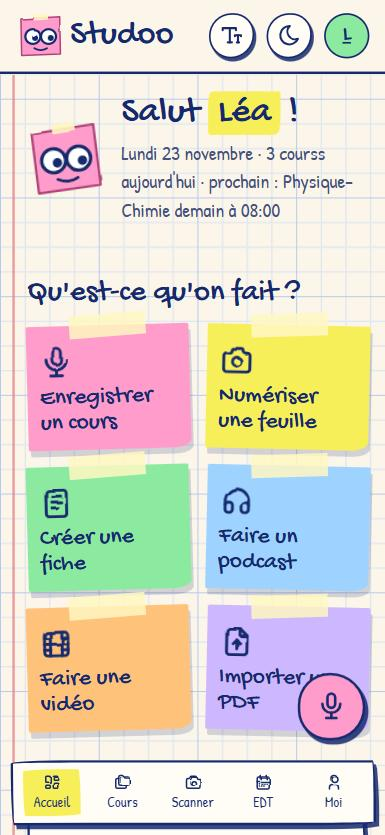
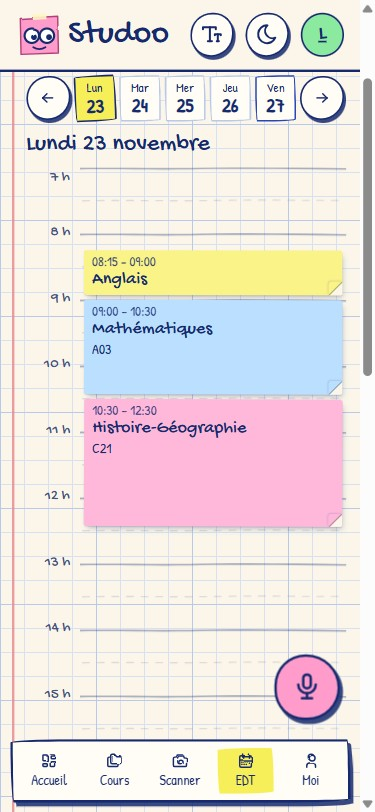
Lancement public : README soigné, guide des étapes manuelles, contrôle avant mise en ligne (itération 7, L2 et L4)
- Vercel ne met en ligne la branche main que si les tests GitHub ont réussi pour ce commit
  (scripts/vercel-ignore.sh, testé : réussite → mise en ligne, échec → annulation) et relance les tests
  du site pendant la construction.
- README : présentation, captures à jour, fonctionnalités, choix techniques, schéma, sécurité, installation,
  ce qu'il faut configurer soi-même, liens vers SERVICES, SECURITE, LANCEMENT ; crédits corrigés.
- docs/LANCEMENT.md : étapes manuelles dans l'ordre (clés Azure, Sentry, Google en production et vérification
  de la marque, Search Console, Bing, GitHub), textes à coller, script de vidéo, coûts ; logo 120×120 pour Google.
- .env.example : nouveaux réglages (quotas des générations, Sentry, e-mail de secours).

diff --git a/README.md b/README.md
@@ -5,13 +5,15 @@
 <h1 align="center">Studoo</h1>
 
 <p align="center"><strong>Tes cours, au propre.</strong><br>
-Un site de révision pour lycéens et étudiants : transcription de cours, numérisation de feuilles,<br>
-fiches, podcasts et vidéos générés <em>uniquement</em> à partir de tes propres cours, le tout rangé dans ton Google Drive.</p>
+Un site de révision gratuit pour lycéens et étudiants : transcription de cours, numérisation de feuilles,<br>
+fiches, podcasts, vidéos et exercices générés <em>uniquement</em> à partir de tes propres cours, le tout rangé dans ton Google Drive.</p>
 
 <p align="center">
-  <a href="https://studoo-app.vercel.app">studoo-app.vercel.app</a> ·
+  <a href="https://studoo-app.vercel.app"><strong>studoo-app.vercel.app</strong></a> ·
   <a href="docs/ARCHITECTURE.md">Architecture</a> ·
-  <a href="docs/DEPLOIEMENT.md">Mise en ligne</a>
+  <a href="docs/SERVICES.md">Services</a> ·
+  <a href="docs/SECURITE.md">Sécurité</a> ·
+  <a href="docs/LANCEMENT.md">Mise en ligne</a>
 </p>
 
 ![Page d'accueil de Studoo au style cahier quadrillé](docs/screenshots/accueil.png)
@@ -20,60 +22,64 @@ fiches, podcasts et vidéos générés <em>uniquement</em> à partir de tes prop
 
 | Outil | Comment |
 |---|---|
-| 🎙 **Enregistrer un cours** | Le micro de l'appareil enregistre par tranches de 5 min. Chaque tranche est transcrite par **Azure AI Speech** avec le **rôle de chaque personne** (« Professeur : », « Élève : »), puis **l'audio est effacé**. |
-| 📷 **Numériser une feuille** | Photo → détection de la feuille → redressement → suppression des ombres → **PDF propre**. Traitement d'image écrit à la main en JavaScript, dans le navigateur. |
-| 🗂 **Ranger automatiquement** | Après chaque enregistrement/numérisation, Studoo **devine le cours** (emploi du temps + IA), le chapitre et **génère le titre**. |
-| 📝 **Fiches de révision** | Fiches dessinées à la main (définitions surlignées, formules encadrées, pièges, mini-quiz), exportables en PDF. |
-| 🎧 **Podcasts** | 10, 20 ou 30 min, dialogue Vivienne + Henri (voix Azure, allure radio), script écrit par GPT-4.1 mini sur le serveur de tâches. |
-| 🎬 **Vidéos explicatives** | Diaporama animé dessiné + voix (Vivienne) + sous-titres, animé dans le navigateur et exportable en **MP4** (WebCodecs) : format TikTok, YouTube ou long. |
-| ✏ **Feuilles d'exercices** | Entraînement (TD), mise en pratique (TP), contrôle blanc (DST) ou questions flash (QCM), tirés des cours ; corrigé masqué ; **correction de la copie en photo** (note /20, erreurs, notions à revoir). |
-| 📅 **Emploi du temps** | Grille aux **vraies heures** (vue semaine, vue jour sur téléphone). **Robots** : lycée → Pronote et l'ENT régional trouvés tout seuls ; supérieur → ADE (vérifié sur un vrai compte) et Celcat. **Expérimentaux, jamais testés sur un vrai compte** : HyperPlanning, Aurion, ADE à identifiants propres. Le mot de passe est oublié après la connexion. À chaque échec : dernier recours `.ics` + signalement de l'établissement ([détails](docs/EMPLOI_DU_TEMPS.md)). |
+| 🎙 **[Enregistrer un cours](https://studoo-app.vercel.app/outils/transcrire-un-cours)** | Le micro enregistre par tranches de 5 min ; **Azure AI Speech** transcrit en indiquant **qui parle** (« Professeur : », « Élève : »), puis **l'audio est effacé**. Jauge de niveau sonore, messages clairs (micro inaccessible, silence, service indisponible). |
+| 📷 **Numériser une feuille** | Photo → détection de la feuille → redressement → suppression des ombres → **PDF propre**. Traitement d'image écrit à la main en JavaScript, dans le navigateur. Le texte est lu sur notre serveur par un modèle open source (Qwen3-VL). |
+| 🗂 **Ranger automatiquement** | Après chaque enregistrement ou numérisation, Studoo **devine le cours** (emploi du temps + IA), le chapitre, et **propose un titre**. |
+| 📝 **[Fiches de révision](https://studoo-app.vercel.app/outils/fiche-de-revision-automatique)** | Fiches dessinées à la main (définitions surlignées, formules encadrées, pièges, mini-quiz), exportables en PDF. |
+| 🎧 **[Podcasts](https://studoo-app.vercel.app/outils/podcast-de-revision)** | 10, 20 ou 30 min, dialogue Vivienne + Henri (voix Azure, allure radio), écrit sur le serveur de tâches : on peut fermer la page. |
+| 🎬 **[Vidéos explicatives](https://studoo-app.vercel.app/outils/video-de-revision)** | Diaporama dessiné, commenté et sous-titré, animé dans le navigateur, exportable en **MP4** (WebCodecs) : format TikTok, YouTube ou long. |
+| ✏ **[Exercices et correction](https://studoo-app.vercel.app/outils/exercices-et-correction)** | TD, TP, contrôle blanc ou QCM tirés des cours ; corrigé caché ; **correction de la copie en photo** (note /20, erreurs, notions à revoir). |
+| 📅 **[Emploi du temps](https://studoo-app.vercel.app/outils/emploi-du-temps)** | Grille **dessinée à la main**, cours en post-it **à leur heure réelle** (semaine sur PC, jour par jour sur téléphone). **Robots** : Pronote et ENT régionaux (lycées), ADE (vérifié sur un vrai compte) et Celcat (supérieur) ; **expérimentaux, jamais testés sur un vrai compte** : HyperPlanning, Aurion, ADE à identifiants propres. Le mot de passe est oublié après la connexion. À chaque échec : dernier recours `.ics` + signalement de l'établissement. |
+| ⚙ **Admin** | Comptes (supprimer ou **bannir**, journal des actions), établissements signalés, quotas, **services** (tableau de bord et mode d'emploi de chacun), schéma du site. |
 
 <table>
   <tr>
-    <td><img src="docs/screenshots/tableau-de-bord.jpg" alt="Tableau de bord : outils en post-it, cours du jour, mes cours"></td>
-    <td><img src="docs/screenshots/fiche.jpg" alt="Fiche de révision générée au style cahier"></td>
+    <td><img src="docs/screenshots/tableau-de-bord.jpg" alt="Tableau de bord : outils en post-it (4 + 3), cours du jour, mes cours"></td>
+    <td><img src="docs/screenshots/emploi-du-temps.jpg" alt="Emploi du temps dessiné à la main, cours en post-it placés à leur heure réelle"></td>
   </tr>
   <tr>
+    <td><img src="docs/screenshots/fiche.jpg" alt="Fiche de révision générée au style cahier"></td>
     <td><img src="docs/screenshots/video.jpg" alt="Vidéo explicative générée au format vertical"></td>
-    <td><img src="docs/screenshots/emploi-du-temps-sombre.jpg" alt="Emploi du temps de la semaine en mode sombre"></td>
   </tr>
 </table>
 
-<p align="center"><img src="docs/screenshots/mobile.jpg" alt="Tableau de bord sur téléphone avec barre de navigation et bouton micro" width="260"></p>
+<p align="center"><img src="docs/screenshots/mobile.jpg" alt="Emploi du temps sur téléphone : un jour à la fois, sélecteur de jours" width="260"></p>
 
 ## Choix techniques (et pourquoi)
 
 | Partie | Technologie | Pourquoi |
 |---|---|---|
-| Site | **HTML, CSS, JavaScript** sans framework, assemblés par **Vite** | Comprendre chaque ligne ; site léger (Lighthouse **100/100** partout). |
-| API | **Python 3 + FastAPI** | Lisible, rapide, validation automatique des données (Pydantic). |
-| Connexion | **Google uniquement** (OAuth 2.0, flux « code ») | Un seul compte, qui donne aussi accès au stockage (Drive). |
-| Stockage | **Google Drive** de l'utilisateur, autorisation `drive.file` | Aucun cours sur nos serveurs ; Studoo ne voit que ses propres fichiers. |
-| IA | **Microsoft Azure** : AI Speech (transcription avec rôles, voix Vivienne/Henri), Azure OpenAI GPT-4.1 mini (rangement, fiches, scripts, exercices, corrections), Qwen3-VL open source sur notre serveur (lecture des photos) | Crédit Azure for Students, données en Europe (Italy North). **Aucun envoi à Google par défaut** ; chaque élève peut, s'il le veut, utiliser **sa propre clé Gemini** pour les fonctionnalités qu'il coche. |
-| Base de données | **Postgres (Neon)**, SQLite en local, SQLAlchemy Core | Seulement comptes, compteurs et messages. |
-| Pronote / ENT | **pronotepy** (Python, non officielle, MIT) | Robot : lycée trouvé dans l'annuaire officiel, ENT reconnu tout seul, récupération du lien iCal officiel. |
-| Hébergement | **Vercel** (site statique + fonction Python) | Gratuit, déploiement automatique depuis GitHub, HTTPS. |
+| Site | **HTML, CSS, JavaScript** sans framework, assemblés par **Vite** ; pages publiques pré-générées | Comprendre chaque ligne ; site léger ; contenu lisible par les moteurs et les IA sans JavaScript. |
+| API | **Python 3.12 + FastAPI** (fonction Vercel, région Paris) | Lisible, rapide, validation automatique des données (Pydantic). |
+| Connexion | **Google uniquement** (OAuth 2.0, flux « code »), portées minimales | Un seul compte, qui donne aussi accès au stockage. `drive.file` : Studoo ne voit que ses propres fichiers. |
+| Stockage | **Google Drive** de l'utilisateur | Aucun cours sur nos serveurs. |
+| IA | **Microsoft Azure** : AI Speech (transcription, voix), Azure OpenAI GPT-4.1 mini (rangement, fiches, scripts, exercices) ; **Qwen3-VL** open source sur notre serveur (photos) | Crédit Azure for Students, données stockées en Europe. **Rien n'est envoyé à Google Gemini par défaut** ; un élève peut utiliser *sa* clé pour les fonctionnalités qu'il coche. |
+| Tâches longues | **Azure Container Apps** (job) réveillé par une file Azure Storage | Podcasts, vidéos, exercices, corrections pendant que l'élève est absent ; s'arrête quand il n'y a rien à faire. |
+| Base de données | **Postgres (Neon)**, SQLite en local, SQLAlchemy Core | Seulement comptes, compteurs, tâches en cours (chiffrées), signalements, bannissements (empreintes). |
+| Suivi des erreurs | **Sentry** (facultatif) | Sans aucune donnée personnelle (ni corps de requête, ni variables, ni IP). |
 
 ```
 Navigateur ──► Google Drive (direct, jeton de l'utilisateur)
     │
-    └──► /api (FastAPI) ──► Azure    (AI Speech, OpenAI ; clés cachées côté serveur)
-    │                  └──► Neon     (comptes, compteurs)
-                       └──► Pronote / ENT / ADE (emploi du temps)
+    └──► /api (FastAPI, Vercel Paris) ──► Azure AI Speech / Azure OpenAI
+                  │                  ├──► Neon (comptes, compteurs, tâches chiffrées)
+                  │                  └──► Pronote / ENT / ADE / Celcat (robots d'emploi du temps)
+                  └──► file Azure ──► serveur de tâches (Azure) ──► Drive de l'élève + notification
 ```
 
-Détails, limites et quotas : [docs/ARCHITECTURE.md](docs/ARCHITECTURE.md).
+Le détail de chaque service (rôle, offre gratuite, où trouver journaux, quotas et clés, que faire en cas de panne) :
+[docs/SERVICES.md](docs/SERVICES.md). Architecture : [docs/ARCHITECTURE.md](docs/ARCHITECTURE.md).
 
 ## Sécurité et vie privée
 
-- **Aucune clé dans le navigateur** : clés Azure et secret OAuth restent dans l'API ; la clé Gemini *facultative* d'un élève est chiffrée sur le serveur et ne lui est jamais renvoyée.
-- **Session chiffrée** (Fernet/AES) dans un cookie `httpOnly`, `Secure`, `SameSite=Lax` ; protection **CSRF** par en-tête dédié.
-- **HTTPS forcé** + HSTS, **Content-Security-Policy** stricte, `X-Frame-Options`, `Permissions-Policy`.
-- **Validation côté serveur** de toutes les entrées (tailles, formats), **limitation de débit**, formulaire de contact **anti-spam** (pot de miel + piège temporel).
-- Import de liens `.ics` protégé contre le **SSRF** (adresses privées refusées, redirections vérifiées).
-- **Analytics maison sans cookie** (empreinte anonyme renouvelée chaque jour), avec consentement.
-- Pages **RGPD** et **CGU**, bannière cookies (« Refuser » aussi simple qu'« Accepter »), suppression du compte en un clic.
+Audit avant l'ouverture publique, par gravité (trouvé, corrigé, reste à faire) : [docs/SECURITE.md](docs/SECURITE.md).
+
+- **Aucune clé dans le navigateur** ; clé Gemini facultative d'un élève chiffrée sur le serveur, jamais renvoyée.
+- **Session chiffrée** (Fernet) dans un cookie `HttpOnly`, `Secure`, `SameSite=Lax`, revérifiée à chaque requête (compte supprimé ou banni → session coupée) ; **CSRF** bloqué par en-tête dédié.
+- **HTTPS forcé**, HSTS, **CSP stricte**, `X-Frame-Options`, `Permissions-Policy`, pas de CORS ouvert.
+- **Robots d'emploi du temps** : mot de passe utilisé une fois puis oublié, jamais écrit ni journalisé ; **anti-SSRF** sur chaque requête, redirections comprises.
+- **Limites côté serveur** : débit par fonctionnalité, quotas quotidiens par élève et pour tout le site, 5 générations en cours au plus, anti-spam des formulaires.
+- **Vie privée** : analytics maison sans cookie, empreintes HMAC au lieu des IP, pages RGPD et CGU fidèles au code, suppression du compte en un clic.
 
 ## Lancer le projet en local
 
@@ -107,23 +113,32 @@ npm run dev --prefix frontend                                     # site → htt
 ## Tests
 
 ```bash
-cd backend && python -m pytest -q     # sessions, CSRF, quotas, IA (Azure par défaut, Gemini seulement si choisi), .ics, robots, anti-SSRF, admin…
-npm test --prefix frontend             # scanner, homographie, routeur, fiches, emploi du temps…
+cd backend && python -m pytest -q     # API : sessions, CSRF, accès entre élèves, IA, robots, anti-SSRF, bannissements, limites…
+cd worker && python -m pytest -q      # serveur de tâches
+npm test --prefix frontend            # site : emploi du temps, récupération après déploiement, SEO, inventaire des services…
 ```
 
-Les tests tournent automatiquement sur GitHub à chaque envoi (GitHub Actions).
+Les tests tournent sur GitHub Actions à chaque envoi. **Mise en ligne contrôlée** : Vercel déploie la branche `main`
+seulement si ces tests ont réussi pour ce commit ([scripts/vercel-ignore.sh](scripts/vercel-ignore.sh)) et relance les
+tests du site pendant la construction ; sinon l'ancienne version reste en ligne.
 
-## Mise en ligne
+## À configurer soi-même (jamais dans le dépôt)
 
-Hébergement gratuit sur Vercel, base Neon, configuration Google Cloud et Search Console :
-voir le guide pas à pas [docs/DEPLOIEMENT.md](docs/DEPLOIEMENT.md).
+| Où | Quoi |
+|---|---|
+| **Vercel** → Environment Variables | `APP_URL`, `SESSION_SECRET`, `GOOGLE_CLIENT_ID`, `GOOGLE_CLIENT_SECRET`, `DATABASE_URL`, `ADMIN_EMAILS`, `SPEECH_KEY`, `SPEECH_REGION`, `AZURE_OPENAI_KEY`, `AZURE_OPENAI_URL`, `JOB_SECRET`, `WORKER_QUEUE_URL`, `VAPID_PUBLIC_KEY` ; facultatifs : `SENTRY_DSN`, `EMAIL_NOTIFICATIONS`, `QUOTA_*` |
+| **Serveur de tâches** (`.env.worker`, lu par `worker/azure/deploy.ps1`) | `DATABASE_URL`, `JOB_SECRET`, `GOOGLE_CLIENT_ID/SECRET`, `SPEECH_KEY`, `AZURE_OPENAI_*`, `VAPID_PRIVATE_KEY`, `WORKER_QUEUE_URL` ; facultatifs : `SENTRY_DSN`, `BREVO_API_KEY`, `MAIL_FROM` |
+| **Google Cloud** | Écran de consentement (production), identifiant client OAuth, API Drive |
+| **Google Search Console / Bing** | Vérification du site, envoi du sitemap |
 
-## Limites connues (offre gratuite)
+Guide pas à pas : [docs/LANCEMENT.md](docs/LANCEMENT.md) (ouverture publique) et [docs/DEPLOIEMENT.md](docs/DEPLOIEMENT.md), [docs/AZURE.md](docs/AZURE.md).
+
+## Limites connues
 
 - Azure AI Speech en offre gratuite (F0) : 5 h de transcription et 500 000 caractères de voix par mois pour tout le site.
-- Azure OpenAI payé par le crédit Azure for Students : quotas quotidiens partagés (`QUOTA_*`) pour ne pas l'épuiser.
-- Gemini n'est utilisé qu'avec la clé personnelle d'un élève qui l'a choisi ; en offre gratuite, Google peut alors réutiliser les contenus envoyés (indiqué dans les réglages et la page RGPD).
-- Pronote et les ENT n'ont pas d'API officielle : les connecteurs peuvent cesser de fonctionner ; le lien iCal reste toujours possible.
+- Azure OpenAI payé par le crédit Azure for Students (100 $/an) : limites quotidiennes affichées dans la page RGPD, lues dans la configuration.
+- Les connecteurs d'emploi du temps sont non officiels et peuvent cesser de marcher ; le lien `.ics` reste toujours possible.
+- Les contenus générés par une IA peuvent contenir des erreurs.
 
 ## Licence et crédits
 
@@ -131,5 +146,7 @@ Code sous licence **GNU GPL v3 ou ultérieure** (voir [LICENSE.md](LICENSE.md)).
 
 Icônes [Tabler](https://tabler.io/icons) (MIT) · polices Patrick Hand, Gochi Hand et Atkinson Hyperlegible (SIL OFL) ·
 [pdf-lib](https://pdf-lib.js.org) (MIT) · [PDF.js](https://mozilla.github.io/pdf.js/) (Apache 2.0) · [mp4-muxer](https://github.com/Vanilagy/mp4-muxer) (MIT) ·
-[lamejs](https://github.com/breezystack/lamejs) (LGPL) · [jsQR](https://github.com/cozmo/jsQR) (Apache 2.0) · [pronotepy](https://github.com/bain3/pronotepy) (MIT).
-Studoo n'est affilié ni à Google, ni à Index Éducation, ni aux établissements cités.
+[pronotepy](https://github.com/bain3/pronotepy) (MIT) · [Sentry SDK](https://github.com/getsentry/sentry-javascript) (MIT) ·
+modèles [Qwen3-VL et Qwen3-4B](https://huggingface.co/Qwen) (Apache 2.0) · fonctionnement d'Aurion compris grâce à
+[ISENpy](https://github.com/CorentinMre/ISENpy) (MIT) et [Python-Planning-Aurion](https://github.com/Balth-D/Python-Planning-Aurion) (Apache 2.0), sans code recopié.
+Studoo n'est affilié ni à Google, ni à Microsoft, ni à Index Éducation, ni aux établissements cités. Site édité par **BastosDev**.

diff --git a/docs/LANCEMENT.md b/docs/LANCEMENT.md
@@ -1,0 +1,117 @@
+# Ouvrir Studoo à tout le monde : étapes manuelles (itération 7)
+
+Tout ce qui pouvait être fait dans le code l'est. Restent les actions dans des consoles en ligne, que **toi seul**
+peux faire. Suis-les **dans cet ordre**. Coût total : **0 €** (un nom de domaine, environ 7 à 15 €/an, seulement si
+Google refuse l'adresse `vercel.app` à l'étape 3).
+
+## 1. Sécurité d'abord : régénérer deux clés Azure (10 min)
+
+Les clés Azure AI Speech et Azure OpenAI ont transité par la conversation de développement. Par prudence :
+
+1. Portail Azure → ressource **studoo-voix** → *Clés et point de terminaison* → **Régénérer la clé 1**.
+2. Même chose pour **studoo-ecriture-…** (Azure OpenAI).
+3. Vercel → *Settings → Environment Variables* : remplace `SPEECH_KEY` et `AZURE_OPENAI_KEY` (production) par les nouvelles clés.
+4. Mets aussi les nouvelles clés dans `.env.worker` (`SPEECH_KEY`, `AZURE_OPENAI_KEY`), puis lance `worker/azure/deploy.ps1`
+   (ce lancement met aussi en ligne la nouvelle version du serveur de tâches : Sentry, Gemini au choix de l'élève).
+5. Vercel → *Deployments* → dernier déploiement → **Redeploy**.
+
+## 2. Sentry : suivi des erreurs (10 min)
+
+1. Crée un compte sur <https://sentry.io> en choisissant la région **EU (Frankfurt)** pour les données.
+2. Crée un projet (plateforme « Python » ; il recevra aussi les erreurs du site) nommé `studoo`.
+3. **Obligatoire avant d'activer** : *Settings → Security & Privacy* → coche **Prevent Storing of IP Addresses**
+   et laisse **Data Scrubber** activé (la page RGPD annonce qu'aucune adresse IP n'est gardée).
+4. Copie le **DSN** (*Settings → Client Keys*). Ajoute-le dans Vercel (`SENTRY_DSN`, production) et dans `.env.worker`
+   (`SENTRY_DSN`), puis redéploie (Vercel *Redeploy* et `deploy.ps1`). Tant que `SENTRY_DSN` est vide, rien n'est envoyé.
+
+## 3. Google : connexion ouverte à tous (30 min + 2 à 3 jours d'attente)
+
+Bonne nouvelle : Studoo ne demande que des **portées non sensibles** (`openid`, `email`, `profile`,
+`https://www.googleapis.com/auth/drive.file`). Le passage en production **ne déclenche pas d'examen** par Google
+(pas de vidéo ni d'audit de sécurité obligatoires). Seule la **vérification de la marque** (nom + logo sur l'écran
+de connexion) demande quelques jours ; sans elle, tout le monde peut déjà se connecter, mais l'écran affiche l'adresse
+du site au lieu de « Studoo ».
+
+### 3a. Adresse d'assistance `probastos@proton.me`
+
+Google n'accepte comme « adresse d'assistance » qu'un **compte Google** (ou un groupe Google) qui a accès au projet :
+
+1. Crée un compte Google **avec ton adresse existante** : <https://accounts.google.com/signup> → « Utiliser mon adresse
+   e-mail actuelle » → `probastos@proton.me` (Google t'envoie un code pour la vérifier).
+2. Google Cloud → *IAM et administration → IAM* → **Accorder l'accès** à `probastos@proton.me`, rôle **Propriétaire**
+   (ou Éditeur).
+
+### 3b. Search Console : prouver que le site est à toi (nécessaire pour la vérification de la marque)
+
+1. <https://search.google.com/search-console> → **Ajouter une propriété** → **Préfixe de l'URL** :
+   `https://studoo-app.vercel.app/` (le type « Domaine » est impossible sur `vercel.app`).
+2. Méthode **Balise HTML** : copie la balise `<meta name="google-site-verification" content="…">` et **envoie-la-moi**
+   (ou colle-la dans `frontend/index.html`, juste après `<meta name="theme-color" …>`), puis attends la mise en ligne et
+   clique sur **Valider**.
+3. Utilise le **même compte Google** que celui qui gère le projet Google Cloud.
+4. *Sitemaps* → ajoute `sitemap.xml`. *Inspection de l'URL* → `https://studoo-app.vercel.app/` → **Demander l'indexation**
+   (puis une page outil, par exemple `/outils/fiche-de-revision-automatique`).
+
+### 3c. Google Auth Platform (console Google Cloud)
+
+<https://console.cloud.google.com/auth/overview>, dans le projet Studoo :
+
+1. **Branding** :
+   - Nom de l'application : `Studoo`
+   - Adresse d'assistance : `probastos@proton.me` (étape 3a)
+   - Logo : `docs/lancement/logo-google-120.png` (120 × 120)
+   - Page d'accueil : `https://studoo-app.vercel.app/`
+   - Règles de confidentialité : `https://studoo-app.vercel.app/rgpd`
+   - Conditions d'utilisation : `https://studoo-app.vercel.app/cgu`
+   - Domaines autorisés : `studoo-app.vercel.app`
+   - Contact développeur : `probastos@proton.me`
+2. **Data access** : vérifie qu'il n'y a **que** `openid`, `.../auth/userinfo.email`, `.../auth/userinfo.profile` et
+   `.../auth/drive.file`. Si une justification est demandée pour `drive.file`, colle :
+   > Studoo enregistre les cours de l'élève (transcriptions, PDF, fiches, podcasts, vidéos) dans un dossier « Studoo »
+   > de son propre Google Drive, et relit uniquement ces fichiers. Avec drive.file, l'application ne voit que les fichiers
+   > qu'elle a créés ou que l'élève ouvre avec elle, jamais le reste de son Drive. Aucun cours n'est stocké sur nos serveurs.
+3. **Clients** → ton identifiant OAuth Web : origines JavaScript autorisées `https://studoo-app.vercel.app`
+   (et `http://localhost:5173` pour le développement). Aucune URI de redirection n'est nécessaire (mode popup).
+4. **Audience** → **Publier l'application** → « En production ». À partir de là, **n'importe quel compte Google** peut se connecter.
+5. **Branding → Vérifier la marque** (« Verify branding »). Réponse sous 2 à 3 jours ouvrés, par e-mail.
+   - **Si Google refuse l'adresse `vercel.app`** : achète un nom de domaine (par exemple `studoo.fr` chez OVH ou
+     Gandi, environ 7 à 15 €/an), ajoute-le dans Vercel (*Settings → Domains*), et dis-le-moi : je mets à jour
+     `APP_URL`, les adresses canoniques, le sitemap et les pages ; tu refais alors 3b avec une propriété « Domaine ».
+
+**Vidéo de démonstration** : non exigée pour des portées non sensibles. Si Google en demande une quand même, script (1 min 30) :
+1. Page d'accueil `https://studoo-app.vercel.app/`, clic sur « Se connecter avec Google ».
+2. Écran de consentement : montrer le nom de l'application et la portée Drive (« fichiers créés par Studoo uniquement »).
+3. Tableau de bord → « Créer une fiche » → choisir un cours → la fiche s'affiche.
+4. Ouvrir Google Drive dans un autre onglet : montrer le dossier « Studoo » et la fiche créée (et rien d'autre).
+5. Réglages → « Supprimer mon compte » (montrer, sans valider) ; liens RGPD et CGU en bas de page.
+
+## 4. Bing Webmaster Tools (5 min)
+
+<https://www.bing.com/webmasters> → **Importer depuis Google Search Console** (le plus simple : propriété et sitemap
+repris automatiquement). Bing alimente aussi plusieurs assistants d'IA (Copilot, etc.).
+
+## 5. GitHub (5 min)
+
+Le dépôt `B2TN/studoo` est déjà public, et l'audit n'y a trouvé **aucun secret** (voir `docs/SECURITE.md`).
+
+1. *Settings → General* : description « Site de révision gratuit : transcription, fiches, podcasts, vidéos à partir de
+   tes cours » ; site web `https://studoo-app.vercel.app` ; sujets `education`, `fastapi`, `vite`, `azure`, `pwa`.
+2. *Settings → Code security* : active **Dependabot alerts**, **Dependabot security updates** et **Secret scanning
+   (push protection)** — gratuits pour un dépôt public.
+3. Rien à faire pour le contrôle avant mise en ligne : Vercel attend tout seul que les tests GitHub réussissent
+   (`scripts/vercel-ignore.sh`).
+
+## 6. Facultatif
+
+- **E-mail de secours** (si les notifications sont refusées) : compte Brevo gratuit, `BREVO_API_KEY` et `MAIL_FROM`
+  dans `.env.worker`, puis `EMAIL_NOTIFICATIONS=1` sur Vercel. Pense à retirer la mention « pas encore activé » de la
+  page RGPD (ou demande-le-moi).
+
+## Récapitulatif des coûts
+
+| Élément | Coût |
+|---|---|
+| Vercel, Neon, GitHub, Sentry (offres gratuites), Search Console, Bing | 0 € |
+| Azure (crédit Azure for Students, 100 $/an) | 0 € tant que le crédit tient ; limites quotidiennes dans le code |
+| Passage en production Google, vérification de la marque | 0 € |
+| Nom de domaine | 0 € avec `vercel.app` ; 7 à 15 €/an seulement si Google le refuse |
